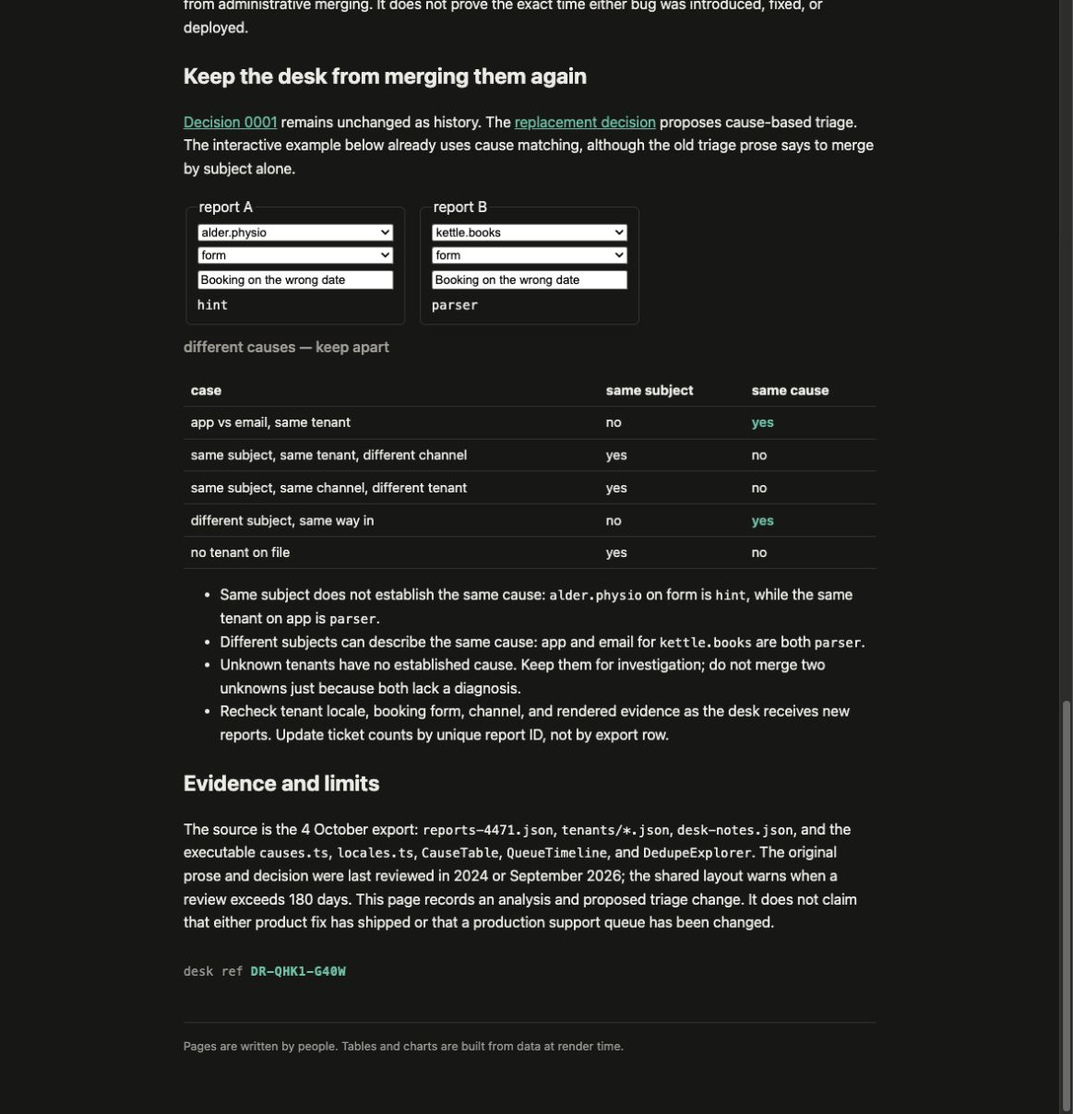
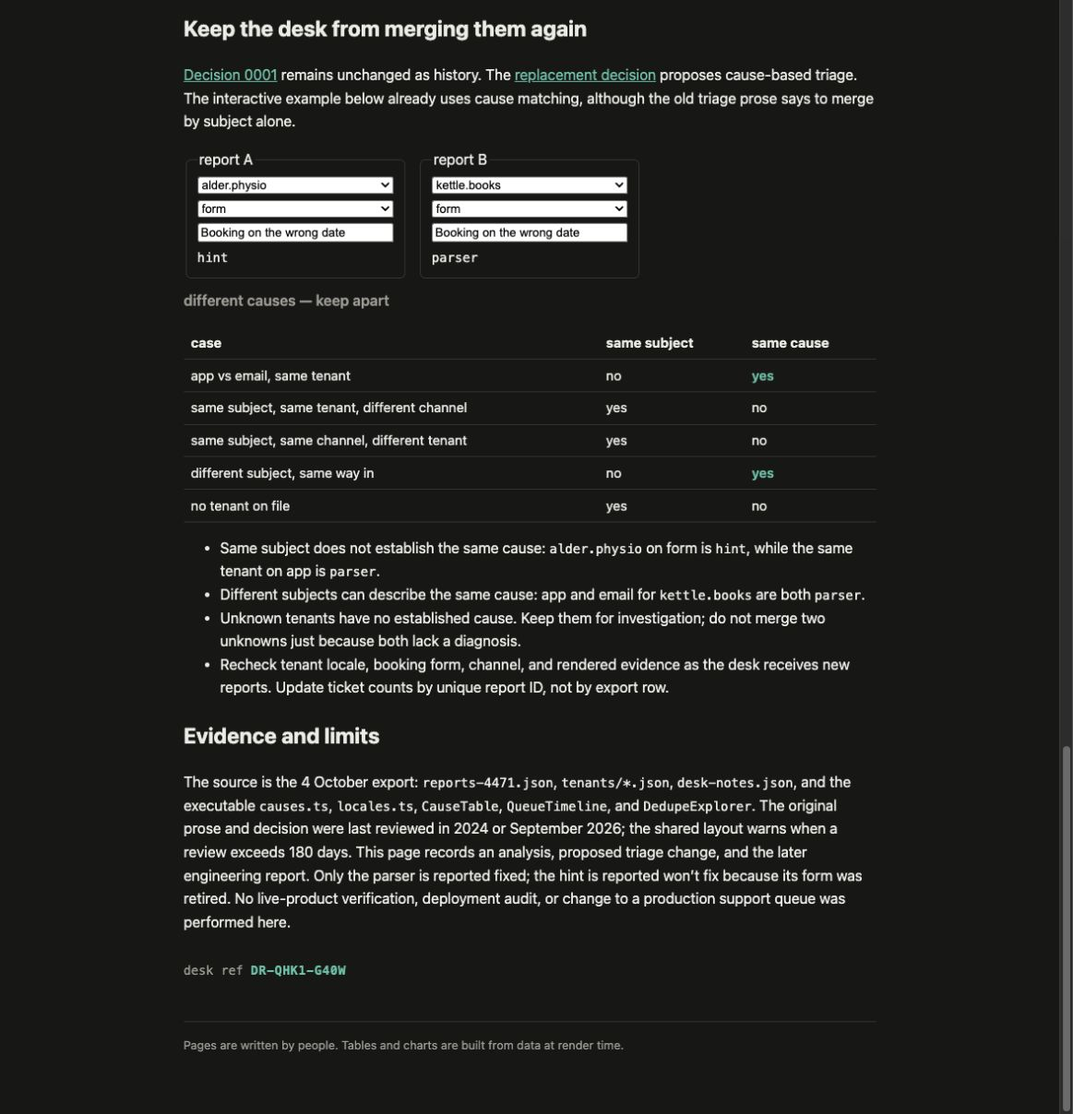
Record separate parser and retired-form closure outcomes

diff --git a/support-kb/build/kb/incidents/4471-review/index.html b/support-kb/build/kb/incidents/4471-review/index.html
@@ -9,11 +9,11 @@
 		<link href="../../../_app/immutable/chunks/BHEAtpxo.js" rel="modulepreload">
 		<link href="../../../_app/immutable/chunks/D2KTpw2n.js" rel="modulepreload">
 		<link href="../../../_app/immutable/chunks/BDBbYZz3.js" rel="modulepreload">
-		<link href="../../../_app/immutable/entry/app.lxTpO4uQ.js" rel="modulepreload">
+		<link href="../../../_app/immutable/entry/app.D6whOcfs.js" rel="modulepreload">
 		<link href="../../../_app/immutable/nodes/0.C83rTuV_.js" rel="modulepreload">
 		<link href="../../../_app/immutable/chunks/DK3Fl9T5.js" rel="modulepreload">
-		<link href="../../../_app/immutable/nodes/6.B8pRSRU6.js" rel="modulepreload">
-		<link href="../../../_app/immutable/chunks/CSAsHyKJ.js" rel="modulepreload">
+		<link href="../../../_app/immutable/nodes/6.D3KAY8k_.js" rel="modulepreload">
+		<link href="../../../_app/immutable/chunks/B5IdbDkk.js" rel="modulepreload">
 		<link href="../../../_app/immutable/chunks/BcLXy0st.js" rel="modulepreload">
 		<link href="../../../_app/immutable/chunks/1i-DsoNN.js" rel="modulepreload">
 		<link href="../../../_app/immutable/chunks/CKflrZGQ.js" rel="modulepreload">
@@ -29,13 +29,20 @@
   <body data-sveltekit-preload-data="hover">
     <div style="display: contents"><!--[--><!--[--><!--[0--><!--[--><!--[--><!--[-1--><!--[--><div class="kb svelte-e2jw2j"><header><a class="crumb svelte-e2jw2j" href="/kb">support desk · kb</a> <h1 class="svelte-e2jw2j">#4471 review: two date problems, separate tickets</h1> <p class="meta svelte-e2jw2j"><span>owner <b>awieckowski with Codex</b></span> <span class="status reviewed svelte-e2jw2j">reviewed</span> <span class="svelte-e2jw2j">reviewed 2026-10-28 · 0 days ago</span></p></header> <!--[-1--><!--]--> <main><aside class="warn svelte-17bri61"><!---->The original #4471 page says “one issue, one fix queued.” Its rendered data shows two causes.
 Known does not mean fixed, and a parser fix does not repair the booking-v3 date hint.
-This review replaces that diagnosis, not the historical report export.<!----></aside><!----> <h2>The split</h2> <p><strong>412 unique reports</strong> in 427 export rows.
+This review replaces that diagnosis, not the historical report export. The 5 October
+engineering update below records two different closure outcomes.<!----></aside><!----> <h2>The split</h2> <p><strong>412 unique reports</strong> in 427 export rows.
   The export repeats 15 rows; repeated IDs are not new reports.</p> <table aria-label="Separate problems and report counts"><thead><tr><th>problem</th><th>reports</th><th>tenants</th><th>GitHub issue</th></tr></thead><tbody><!--[--><tr><td><code>parser</code>: Month-first parser for day-first tenants</td><td>379</td><td>11</td><td><!--[0--><a href="https://github.com/awieckowski/megadev-playground/issues/1">parser issue</a><!--]--></td></tr><tr><td><code>hint</code>: booking-v3 date hint disagrees with tenant format</td><td>33</td><td>3</td><td><!--[0--><a href="https://github.com/awieckowski/megadev-playground/issues/2">hint issue</a><!--]--></td></tr><!--]--></tbody></table> <p>The intake tag disagrees with the tenant-and-channel classifier on <strong>38 reports</strong>. Counting tags gives a different split.</p> <p>The desk marked <strong>5 reports</strong> as one-day moves:
   R-41202, R-41209, R-41236, R-41344, R-41620. The supplied classifier places them under <code>parser</code>; keep their descriptions for investigation, not a third counted cause.</p> <p>The largest merge batch was <strong>184 reports on 2026-07-02</strong>.
   Receipt time and merge time describe different events. A merge spike does not establish
   when a bug started.</p><!----> <p>These counts come from unique report IDs, restricted to <code>mergedInto === 4471</code>, then <code>groupByCause</code> and the tenant directory. The classifier asks <code>Intl.DateTimeFormat</code> for each
 tenant’s date order. Browser language, intake guesses, and matching subjects do not determine
-the cause. The export is a snapshot through 4 October 2026, not a live support queue.</p> <h3>Parser: dates are read month first</h3> <p>The shared parser treats numeric dates as month/day even when a tenant writes day/month.
+the cause. The export is a snapshot through 4 October 2026, not a live support queue.</p> <h2>Engineering update: 5 October 2026</h2> <p>After the tickets were accepted, the <a href="https://hq.mega.dev/challenges/what-it-shows#engineering-update" rel="nofollow">course’s engineering update</a> reported that #4471 closed on <strong>5 October 2026</strong>, one day after this export.
+Its outcomes are separate:</p> <ul><li><strong>Parser — FIXED:</strong> <code>fix(dates): parse dd/mm for eu locales</code>. The <a href="https://github.com/awieckowski/megadev-playground/issues/1" rel="nofollow">parser issue</a> is closed as completed
+on that engineering report.</li> <li><strong>Hint — WON’T FIX:</strong> <code>booking-v3 form retired</code>. The <a href="https://github.com/awieckowski/megadev-playground/issues/2" rel="nofollow">hint issue</a> is closed as not planned,
+not as a repaired hint. Retiring the form is a different outcome from fixing its code.</li></ul> <p>These are course-provided engineering outcomes, not independently observed product
+tests or deployment results. They do not change the historical report counts or show
+that old bookings were repaired. The diagnosis and checks below describe the exported
+failure paths; they are not evidence that either path remains active after closure.</p> <h3>Parser: dates are read month first</h3> <p>The shared parser treats numeric dates as month/day even when a tenant writes day/month.
 The result is a month/day swap. For example, <code>R-41200</code> is an app report from <code>harbour.dental</code> (<code>en-GB</code>, <code>booking-v2</code>): a 7 April reminder went out on 4 July.</p> <p>The supplied classifier assigns this cause to day-first tenants on app and email,
 and to forms other than the booking-v3 hint path. Fix the parser using the tenant’s
 date convention; test ambiguous dates, invalid dates, and day-first/month-first controls.
@@ -56,21 +63,23 @@ while the same tenant on app is <code>parser</code>.</li> <li>Different subjects
 merge two unknowns just because both lack a diagnosis.</li> <li>Recheck tenant locale, booking form, channel, and rendered evidence as the desk
 receives new reports. Update ticket counts by unique report ID, not by export row.</li></ul> <h2>Evidence and limits</h2> <p>The source is the 4 October export: <code>reports-4471.json</code>, <code>tenants/*.json</code>, <code>desk-notes.json</code>, and the executable <code>causes.ts</code>, <code>locales.ts</code>, <code>CauseTable</code>, <code>QueueTimeline</code>, and <code>DedupeExplorer</code>. The original prose and decision were last reviewed
 in 2024 or September 2026; the shared layout warns when a review exceeds 180 days.
-This page records an analysis and proposed triage change. It does not claim that either
-product fix has shipped or that a production support queue has been changed.</p> <!--[0--><p class="stamp svelte-1280m42">desk ref <b class="svelte-1280m42">DR-QHK1-G40W</b></p><!--]--><!----><!----></main> <footer class="svelte-e2jw2j">Pages are written by people. Tables and charts are built from data at render time.</footer></div><!--]--><!--]--><!--]--><!----><!--]--><!--]--><!--]--><!----> <!--[-1--><!--]--><!--]-->
+This page records an analysis, proposed triage change, and the later engineering report.
+Only the parser is reported fixed; the hint is reported won’t fix because its form was
+retired. No live-product verification, deployment audit, or change to a production
+support queue was performed here.</p> <!--[0--><p class="stamp svelte-1280m42">desk ref <b class="svelte-1280m42">DR-QHK1-G40W</b></p><!--]--><!----><!----></main> <footer class="svelte-e2jw2j">Pages are written by people. Tables and charts are built from data at render time.</footer></div><!--]--><!--]--><!--]--><!----><!--]--><!--]--><!--]--><!----> <!--[-1--><!--]--><!--]-->
 			
 			<script>
 				{
-					__sveltekit_1jpdp2u = {
+					__sveltekit_lphhdr = {
 						base: new URL("../../..", location).pathname.slice(0, -1),
-						version: "1793185425066"
+						version: "1793186070178"
 					};
 
 					const element = document.currentScript.parentElement;
 
 					import("../../../_app/immutable/entry/start.D_uPDhA5.js").then(async (kit) => {
-						kit.init(__sveltekit_1jpdp2u);
-						const app = await import("../../../_app/immutable/entry/app.lxTpO4uQ.js");
+						kit.init(__sveltekit_lphhdr);
+						const app = await import("../../../_app/immutable/entry/app.D6whOcfs.js");
 						kit.start(app, element, {
 							node_ids: [0, 6],
 							data: [null,null],

diff --git a/support-kb/build/_app/immutable/chunks/B5IdbDkk.js b/support-kb/build/_app/immutable/chunks/B5IdbDkk.js
@@ -4,7 +4,13 @@ import{t as e}from"./DK3Fl9T5.js";import{E as t,F as n,I as r,K as i,L as a,N as
   The export repeats ${w.length-y.length} rows; repeated IDs are not new reports.`),l(q,`${S.length??``} reports`),l(X,`${D??``} reports`),l(Z,` as one-day moves:
   ${e??``}. The supplied classifier places them under `),l(ee,`${T[1]??``} reports on ${T[0]??``}`)},[()=>E.oneDayMove.join(`, `)]),x(e,P),u()}var B=e({default:()=>Y,metadata:()=>V}),V={layout:`runbook`,title:`#4471 review: two date problems, separate tickets`,owner:`awieckowski with Codex`,status:`reviewed`,reviewed:`2026-10-28`,signature:`v1.eyJzdWIiOiIyNDUiLCJhdWQiOiJjaGFsbGVuZ2U6d2hhdC1pdC1zaG93cyIsImlhdCI6MTc5MzE4NTMzNywiZXhwIjoxNzkzMjcxNzM3fQ.d8vVYayDXYcQmMiK6XRhAFDX--nD4otazremo8Bz80A`},{layout:H,title:U,owner:W,status:G,reviewed:K,signature:q}=V,J=t(`<!> <h2>The split</h2> <!> <p>These counts come from unique report IDs, restricted to <code>mergedInto === 4471</code>, then <code>groupByCause</code> and the tenant directory. The classifier asks <code>Intl.DateTimeFormat</code> for each
 tenant’s date order. Browser language, intake guesses, and matching subjects do not determine
-the cause. The export is a snapshot through 4 October 2026, not a live support queue.</p> <h3>Parser: dates are read month first</h3> <p>The shared parser treats numeric dates as month/day even when a tenant writes day/month.
+the cause. The export is a snapshot through 4 October 2026, not a live support queue.</p> <h2>Engineering update: 5 October 2026</h2> <p>After the tickets were accepted, the <a href="https://hq.mega.dev/challenges/what-it-shows#engineering-update" rel="nofollow">course’s engineering update</a> reported that #4471 closed on <strong>5 October 2026</strong>, one day after this export.
+Its outcomes are separate:</p> <ul><li><strong>Parser — FIXED:</strong> <code>fix(dates): parse dd/mm for eu locales</code>. The <a href="https://github.com/awieckowski/megadev-playground/issues/1" rel="nofollow">parser issue</a> is closed as completed
+on that engineering report.</li> <li><strong>Hint — WON’T FIX:</strong> <code>booking-v3 form retired</code>. The <a href="https://github.com/awieckowski/megadev-playground/issues/2" rel="nofollow">hint issue</a> is closed as not planned,
+not as a repaired hint. Retiring the form is a different outcome from fixing its code.</li></ul> <p>These are course-provided engineering outcomes, not independently observed product
+tests or deployment results. They do not change the historical report counts or show
+that old bookings were repaired. The diagnosis and checks below describe the exported
+failure paths; they are not evidence that either path remains active after closure.</p> <h3>Parser: dates are read month first</h3> <p>The shared parser treats numeric dates as month/day even when a tenant writes day/month.
 The result is a month/day swap. For example, <code>R-41200</code> is an app report from <code>harbour.dental</code> (<code>en-GB</code>, <code>booking-v2</code>): a 7 April reminder went out on 4 July.</p> <p>The supplied classifier assigns this cause to day-first tenants on app and email,
 and to forms other than the booking-v3 hint path. Fix the parser using the tenant’s
 date convention; test ambiguous dates, invalid dates, and day-first/month-first controls.
@@ -25,7 +31,10 @@ while the same tenant on app is <code>parser</code>.</li> <li>Different subjects
 merge two unknowns just because both lack a diagnosis.</li> <li>Recheck tenant locale, booking form, channel, and rendered evidence as the desk
 receives new reports. Update ticket counts by unique report ID, not by export row.</li></ul> <h2>Evidence and limits</h2> <p>The source is the 4 October export: <code>reports-4471.json</code>, <code>tenants/*.json</code>, <code>desk-notes.json</code>, and the executable <code>causes.ts</code>, <code>locales.ts</code>, <code>CauseTable</code>, <code>QueueTimeline</code>, and <code>DedupeExplorer</code>. The original prose and decision were last reviewed
 in 2024 or September 2026; the shared layout warns when a review exceeds 180 days.
-This page records an analysis and proposed triage change. It does not claim that either
-product fix has shipped or that a production support queue has been changed.</p> <!>`,1);function Y(e,t){let n=b(t,[`children`,`$$slots`,`$$events`,`$$legacy`]);S(e,y(()=>n,()=>V,{children:(e,t)=>{var n=J(),a=r(n);N(a,{kind:`warn`,children:(e,t)=>{i();var n=s(`The original #4471 page says “one issue, one fix queued.” Its rendered data shows two causes.
+This page records an analysis, proposed triage change, and the later engineering report.
+Only the parser is reported fixed; the hint is reported won’t fix because its form was
+retired. No live-product verification, deployment audit, or change to a production
+support queue was performed here.</p> <!>`,1);function Y(e,t){let n=b(t,[`children`,`$$slots`,`$$events`,`$$legacy`]);S(e,y(()=>n,()=>V,{children:(e,t)=>{var n=J(),a=r(n);N(a,{kind:`warn`,children:(e,t)=>{i();var n=s(`The original #4471 page says “one issue, one fix queued.” Its rendered data shows two causes.
 Known does not mean fixed, and a parser fix does not repair the booking-v3 date hint.
-This review replaces that diagnosis, not the historical report export.`);x(e,n)},$$slots:{default:!0}});var o=c(a,4);z(o,{});var l=c(o,18);T(l,{ticket:4471});var u=c(l,6);D(u,{ticket:4471});var d=c(u,8);P(d,{});var f=c(d,8);C(f,{get signature(){return q}}),x(e,n)},$$slots:{default:!0}}))}export{Y as n,B as t};
+This review replaces that diagnosis, not the historical report export. The 5 October
+engineering update below records two different closure outcomes.`);x(e,n)},$$slots:{default:!0}});var o=c(a,4);z(o,{});var l=c(o,26);T(l,{ticket:4471});var u=c(l,6);D(u,{ticket:4471});var d=c(u,8);P(d,{});var f=c(d,8);C(f,{get signature(){return q}}),x(e,n)},$$slots:{default:!0}}))}export{Y as n,B as t};

diff --git a/support-kb/build/_app/immutable/entry/app.D6whOcfs.js b/support-kb/build/_app/immutable/entry/app.D6whOcfs.js
@@ -1,0 +1,2 @@
+const __vite__mapDeps=(i,m=__vite__mapDeps,d=(m.f||(m.f=["../nodes/0.C83rTuV_.js","../chunks/DK3Fl9T5.js","../chunks/D2KTpw2n.js","../nodes/1.BHRZFt3u.js","../chunks/BDBbYZz3.js","./payload.DSmR2FwN.js","../nodes/2.Ck7Bv5CZ.js","../chunks/BcLXy0st.js","../assets/runbook.COyw0cbZ.css","../chunks/BJ1p8o6g.js","../chunks/DfvqWi0V.js","../chunks/1i-DsoNN.js","../assets/RenderStamp.WePi3wDe.css","../chunks/DjAa7M0z.js","../chunks/CKflrZGQ.js","../chunks/Drs7xK2k.js","../assets/Callout.AbLv9dM_.css","../assets/QueueTimeline.D56XP2ro.css","../chunks/B5IdbDkk.js","../chunks/C0cLGNGr.js","../assets/DedupeExplorer.DO6Yid7X.css","../chunks/D__6ojwE.js","../assets/2.Bt0MwIZg.css","../nodes/3.BzPjfzl3.js","../nodes/4.C2DvF8hp.js","../nodes/5.B8jRHSSY.js","../nodes/6.D3KAY8k_.js","../nodes/7.CJhcPMea.js"])))=>i.map(i=>d[i]);
+import{t as e}from"../chunks/CRzLMJPS.js";var t={},n=[()=>e(()=>import(`../nodes/0.C83rTuV_.js`),__vite__mapDeps([0,1,2]),import.meta.url),()=>e(()=>import(`../nodes/1.BHRZFt3u.js`),__vite__mapDeps([3,2,4,5]),import.meta.url),()=>e(()=>import(`../nodes/2.Ck7Bv5CZ.js`),__vite__mapDeps([6,2,7,8,9,1,10,11,12,13,14,15,16,17,18,19,20,21,22]),import.meta.url),()=>e(()=>import(`../nodes/3.BzPjfzl3.js`),__vite__mapDeps([23,9,1,2,7,8]),import.meta.url),()=>e(()=>import(`../nodes/4.C2DvF8hp.js`),__vite__mapDeps([24,10,1,2,7,8,11,12]),import.meta.url),()=>e(()=>import(`../nodes/5.B8jRHSSY.js`),__vite__mapDeps([25,13,1,2,7,8,14,15,16,17]),import.meta.url),()=>e(()=>import(`../nodes/6.D3KAY8k_.js`),__vite__mapDeps([26,18,1,2,7,8,11,12,14,15,16,17,19,20]),import.meta.url),()=>e(()=>import(`../nodes/7.CJhcPMea.js`),__vite__mapDeps([27,21,1,2,7,8,15,16,19,20]),import.meta.url)],r=[],i={"/kb":[2],"/kb/decisions/0001-dedupe-by-subject":[3],"/kb/decisions/0002-dedupe-by-cause":[4],"/kb/incidents/4471-review":[6],"/kb/incidents/4471":[5],"/kb/triage/dedupe":[7]},a={handleError:(({kind:e,error:t})=>{e===`unknown`&&console.error(t)}),reroute:(()=>{}),transport:{}},o=Object.fromEntries(Object.entries(a.transport).map(([e,t])=>[e,t.decode])),s=Object.fromEntries(Object.entries(a.transport).map(([e,t])=>[e,t.encode])),c=!1,l=(e,t)=>o[e](t),u=()=>e(()=>import(`../chunks/Bjy-W4x2.js`).then(e=>e.default),[],import.meta.url);export{l as decode,o as decoders,i as dictionary,s as encoders,u as get_error_template,c as hash,a as hooks,t as matchers,n as nodes,r as server_loads};

diff --git a/support-kb/build/_app/immutable/nodes/2.Ck7Bv5CZ.js b/support-kb/build/_app/immutable/nodes/2.Ck7Bv5CZ.js
@@ -1,0 +1,2 @@
+import{E as e,F as t,I as n,K as r,L as i,N as a,R as o,S as s,U as c,W as l,c as u,d,h as f,i as p,k as m,q as h,r as g,t as _,w as v}from"../chunks/D2KTpw2n.js";import{n as y,r as b,t as x}from"../chunks/BcLXy0st.js";import{t as S}from"../chunks/BJ1p8o6g.js";import{t as C}from"../chunks/DfvqWi0V.js";import{t as w}from"../chunks/DjAa7M0z.js";import{t as T}from"../chunks/B5IdbDkk.js";import{t as E}from"../chunks/D__6ojwE.js";var D=e(`<tr><td><a> </a></td><td> </td><td> </td><td> </td></tr>`),O=e(`<table><thead><tr><th>page</th><th>owner</th><th>status</th><th>reviewed</th></tr></thead><tbody></tbody></table>`);function k(e,n){l(n,!1);let r=Object.entries(Object.assign({"/src/routes/kb/decisions/0001-dedupe-by-subject/+page.svx":S,"/src/routes/kb/decisions/0002-dedupe-by-cause/+page.svx":C,"/src/routes/kb/incidents/4471/+page.svx":w,"/src/routes/kb/incidents/4471-review/+page.svx":T,"/src/routes/kb/triage/dedupe/+page.svx":E})).map(([e,t])=>({href:e.replace(`/src/routes`,``).replace(`/+page.svx`,``),...t.metadata})).sort((e,t)=>e.href.localeCompare(t.href));p();var g=O(),_=o(t(g));f(_,5,()=>r,e=>e.href,(e,n)=>{var r=D(),c=t(r),l=t(c),f=i(l,!0);h(c);var p=o(c),g=i(p,!0),_=o(p),x=i(_,!0),S=o(_);let C;var w=i(S,!0);h(r),a((e,t)=>{u(l,`href`,m(n).href),s(f,m(n).title),s(g,m(n).owner),s(x,m(n).status),C=d(S,1,`svelte-tbc1ha`,null,C,{stale:e}),s(w,t)},[()=>y(m(n).reviewed)>180,()=>b(m(n).reviewed)]),v(e,r)}),h(_),h(g),v(e,g),c()}var A={layout:`runbook`,title:`Support knowledge base`,owner:`support desk`,status:`living`,reviewed:`2026-09-28T00:00:00.000Z`},{layout:j,title:M,owner:N,status:P,reviewed:F}=A,I=e(`<p>What the support desk knows, kept next to the code that knows it. One desk, every product: <code>sched-prod</code> (calendar invites for about 300k people) and the rest. When something breaks, the reports land here first.</p> <p>Start with <a href="/kb/triage/dedupe">triage</a> if you are new on the desk.</p> <h2>Pages</h2> <!> <h2>Writing a page</h2> <p>Keep the words here and the logic in <code>src/lib</code>. A number that can be computed should be
+computed by a component, not typed into a paragraph.</p>`,1);function L(e,t){let i=_(t,[`children`,`$$slots`,`$$events`,`$$legacy`]);x(e,g(()=>i,()=>A,{children:(e,t)=>{var i=I();k(o(n(i),6),{}),r(4),v(e,i)},$$slots:{default:!0}}))}export{L as component};

diff --git a/support-kb/build/kb/index.html b/support-kb/build/kb/index.html
@@ -9,10 +9,10 @@
 		<link href="../_app/immutable/chunks/BHEAtpxo.js" rel="modulepreload">
 		<link href="../_app/immutable/chunks/D2KTpw2n.js" rel="modulepreload">
 		<link href="../_app/immutable/chunks/BDBbYZz3.js" rel="modulepreload">
-		<link href="../_app/immutable/entry/app.lxTpO4uQ.js" rel="modulepreload">
+		<link href="../_app/immutable/entry/app.D6whOcfs.js" rel="modulepreload">
 		<link href="../_app/immutable/nodes/0.C83rTuV_.js" rel="modulepreload">
 		<link href="../_app/immutable/chunks/DK3Fl9T5.js" rel="modulepreload">
-		<link href="../_app/immutable/nodes/2.CT1paL5s.js" rel="modulepreload">
+		<link href="../_app/immutable/nodes/2.Ck7Bv5CZ.js" rel="modulepreload">
 		<link href="../_app/immutable/chunks/BcLXy0st.js" rel="modulepreload">
 		<link href="../_app/immutable/chunks/BJ1p8o6g.js" rel="modulepreload">
 		<link href="../_app/immutable/chunks/DfvqWi0V.js" rel="modulepreload">
@@ -20,7 +20,7 @@
 		<link href="../_app/immutable/chunks/DjAa7M0z.js" rel="modulepreload">
 		<link href="../_app/immutable/chunks/CKflrZGQ.js" rel="modulepreload">
 		<link href="../_app/immutable/chunks/Drs7xK2k.js" rel="modulepreload">
-		<link href="../_app/immutable/chunks/CSAsHyKJ.js" rel="modulepreload">
+		<link href="../_app/immutable/chunks/B5IdbDkk.js" rel="modulepreload">
 		<link href="../_app/immutable/chunks/C0cLGNGr.js" rel="modulepreload">
 		<link href="../_app/immutable/chunks/D__6ojwE.js" rel="modulepreload">
 		<!--e2jw2j--><!----><title>Support knowledge base · support kb</title>
@@ -37,16 +37,16 @@ computed by a component, not typed into a paragraph.</p><!----></main> <footer c
 			
 			<script>
 				{
-					__sveltekit_1jpdp2u = {
+					__sveltekit_lphhdr = {
 						base: new URL("..", location).pathname.slice(0, -1),
-						version: "1793185425066"
+						version: "1793186070178"
 					};
 
 					const element = document.currentScript.parentElement;
 
 					import("../_app/immutable/entry/start.D_uPDhA5.js").then(async (kit) => {
-						kit.init(__sveltekit_1jpdp2u);
-						const app = await import("../_app/immutable/entry/app.lxTpO4uQ.js");
+						kit.init(__sveltekit_lphhdr);
+						const app = await import("../_app/immutable/entry/app.D6whOcfs.js");
 						kit.start(app, element, {
 							node_ids: [0, 2],
 							data: [null,null],

diff --git a/support-kb/build/kb/decisions/0001-dedupe-by-subject/index.html b/support-kb/build/kb/decisions/0001-dedupe-by-subject/index.html
@@ -9,7 +9,7 @@
 		<link href="../../../_app/immutable/chunks/BHEAtpxo.js" rel="modulepreload">
 		<link href="../../../_app/immutable/chunks/D2KTpw2n.js" rel="modulepreload">
 		<link href="../../../_app/immutable/chunks/BDBbYZz3.js" rel="modulepreload">
-		<link href="../../../_app/immutable/entry/app.lxTpO4uQ.js" rel="modulepreload">
+		<link href="../../../_app/immutable/entry/app.D6whOcfs.js" rel="modulepreload">
 		<link href="../../../_app/immutable/nodes/0.C83rTuV_.js" rel="modulepreload">
 		<link href="../../../_app/immutable/chunks/DK3Fl9T5.js" rel="modulepreload">
 		<link href="../../../_app/immutable/nodes/3.BzPjfzl3.js" rel="modulepreload">
@@ -26,16 +26,16 @@ engineering merges them later.</li></ul><!----></main> <footer class="svelte-e2j
 			
 			<script>
 				{
-					__sveltekit_1jpdp2u = {
+					__sveltekit_lphhdr = {
 						base: new URL("../../..", location).pathname.slice(0, -1),
-						version: "1793185425066"
+						version: "1793186070178"
 					};
 
 					const element = document.currentScript.parentElement;
 
 					import("../../../_app/immutable/entry/start.D_uPDhA5.js").then(async (kit) => {
-						kit.init(__sveltekit_1jpdp2u);
-						const app = await import("../../../_app/immutable/entry/app.lxTpO4uQ.js");
+						kit.init(__sveltekit_lphhdr);
+						const app = await import("../../../_app/immutable/entry/app.D6whOcfs.js");
 						kit.start(app, element, {
 							node_ids: [0, 3],
 							data: [null,null],

diff --git a/support-kb/build/kb/decisions/0002-dedupe-by-cause/index.html b/support-kb/build/kb/decisions/0002-dedupe-by-cause/index.html
@@ -9,7 +9,7 @@
 		<link href="../../../_app/immutable/chunks/BHEAtpxo.js" rel="modulepreload">
 		<link href="../../../_app/immutable/chunks/D2KTpw2n.js" rel="modulepreload">
 		<link href="../../../_app/immutable/chunks/BDBbYZz3.js" rel="modulepreload">
-		<link href="../../../_app/immutable/entry/app.lxTpO4uQ.js" rel="modulepreload">
+		<link href="../../../_app/immutable/entry/app.D6whOcfs.js" rel="modulepreload">
 		<link href="../../../_app/immutable/nodes/0.C83rTuV_.js" rel="modulepreload">
 		<link href="../../../_app/immutable/chunks/DK3Fl9T5.js" rel="modulepreload">
 		<link href="../../../_app/immutable/nodes/4.C2DvF8hp.js" rel="modulepreload">
@@ -36,16 +36,16 @@ guide before applying it. Accepted decision records remain immutable.</p> <!--[0
 			
 			<script>
 				{
-					__sveltekit_1jpdp2u = {
+					__sveltekit_lphhdr = {
 						base: new URL("../../..", location).pathname.slice(0, -1),
-						version: "1793185425066"
+						version: "1793186070178"
 					};
 
 					const element = document.currentScript.parentElement;
 
 					import("../../../_app/immutable/entry/start.D_uPDhA5.js").then(async (kit) => {
-						kit.init(__sveltekit_1jpdp2u);
-						const app = await import("../../../_app/immutable/entry/app.lxTpO4uQ.js");
+						kit.init(__sveltekit_lphhdr);
+						const app = await import("../../../_app/immutable/entry/app.D6whOcfs.js");
 						kit.start(app, element, {
 							node_ids: [0, 4],
 							data: [null,null],

diff --git a/support-kb/build/kb/incidents/4471/index.html b/support-kb/build/kb/incidents/4471/index.html
@@ -9,7 +9,7 @@
 		<link href="../../../_app/immutable/chunks/BHEAtpxo.js" rel="modulepreload">
 		<link href="../../../_app/immutable/chunks/D2KTpw2n.js" rel="modulepreload">
 		<link href="../../../_app/immutable/chunks/BDBbYZz3.js" rel="modulepreload">
-		<link href="../../../_app/immutable/entry/app.lxTpO4uQ.js" rel="modulepreload">
+		<link href="../../../_app/immutable/entry/app.D6whOcfs.js" rel="modulepreload">
 		<link href="../../../_app/immutable/nodes/0.C83rTuV_.js" rel="modulepreload">
 		<link href="../../../_app/immutable/chunks/DK3Fl9T5.js" rel="modulepreload">
 		<link href="../../../_app/immutable/nodes/5.B8jRHSSY.js" rel="modulepreload">
@@ -29,16 +29,16 @@ first. The fix is queued.</p> <aside class="note svelte-17bri61"><!---->Known. O
 			
 			<script>
 				{
-					__sveltekit_1jpdp2u = {
+					__sveltekit_lphhdr = {
 						base: new URL("../../..", location).pathname.slice(0, -1),
-						version: "1793185425066"
+						version: "1793186070178"
 					};
 
 					const element = document.currentScript.parentElement;
 
 					import("../../../_app/immutable/entry/start.D_uPDhA5.js").then(async (kit) => {
-						kit.init(__sveltekit_1jpdp2u);
-						const app = await import("../../../_app/immutable/entry/app.lxTpO4uQ.js");
+						kit.init(__sveltekit_lphhdr);
+						const app = await import("../../../_app/immutable/entry/app.D6whOcfs.js");
 						kit.start(app, element, {
 							node_ids: [0, 5],
 							data: [null,null],

diff --git a/support-kb/build/kb/triage/dedupe/index.html b/support-kb/build/kb/triage/dedupe/index.html
@@ -9,7 +9,7 @@
 		<link href="../../../_app/immutable/chunks/BHEAtpxo.js" rel="modulepreload">
 		<link href="../../../_app/immutable/chunks/D2KTpw2n.js" rel="modulepreload">
 		<link href="../../../_app/immutable/chunks/BDBbYZz3.js" rel="modulepreload">
-		<link href="../../../_app/immutable/entry/app.lxTpO4uQ.js" rel="modulepreload">
+		<link href="../../../_app/immutable/entry/app.D6whOcfs.js" rel="modulepreload">
 		<link href="../../../_app/immutable/nodes/0.C83rTuV_.js" rel="modulepreload">
 		<link href="../../../_app/immutable/chunks/DK3Fl9T5.js" rel="modulepreload">
 		<link href="../../../_app/immutable/nodes/7.CJhcPMea.js" rel="modulepreload">
@@ -30,16 +30,16 @@ anything else.<!----></aside><!----> <h2>Try it</h2> <div class="try svelte-gq0h
 			
 			<script>
 				{
-					__sveltekit_1jpdp2u = {
+					__sveltekit_lphhdr = {
 						base: new URL("../../..", location).pathname.slice(0, -1),
-						version: "1793185425066"
+						version: "1793186070178"
 					};
 
 					const element = document.currentScript.parentElement;
 
 					import("../../../_app/immutable/entry/start.D_uPDhA5.js").then(async (kit) => {
-						kit.init(__sveltekit_1jpdp2u);
-						const app = await import("../../../_app/immutable/entry/app.lxTpO4uQ.js");
+						kit.init(__sveltekit_lphhdr);
+						const app = await import("../../../_app/immutable/entry/app.D6whOcfs.js");
 						kit.start(app, element, {
 							node_ids: [0, 7],
 							data: [null,null],

diff --git a/support-kb/build/_app/immutable/nodes/6.D3KAY8k_.js b/support-kb/build/_app/immutable/nodes/6.D3KAY8k_.js
@@ -1,0 +1,1 @@
+export{n as component}from"../chunks/B5IdbDkk.js";

diff --git a/support-kb/README.md b/support-kb/README.md
@@ -42,6 +42,9 @@ The original data and pages are preserved. The new investigation is
 subject-only deduplication without editing accepted decision 0001.
 The new pages use the course-issued ticket verbatim as their frontmatter signature,
 as required by S01E03. `RenderStamp` computes the corresponding desk reference.
+The review also records the course's 5 October engineering update: parser fixed;
+hint won't fix because booking-v3 was retired. Those outcomes are attributed to the
+course, not presented as independent live-product verification.
 
 Requires Node.js 22.18+ (native TypeScript stripping) and npm.
 
